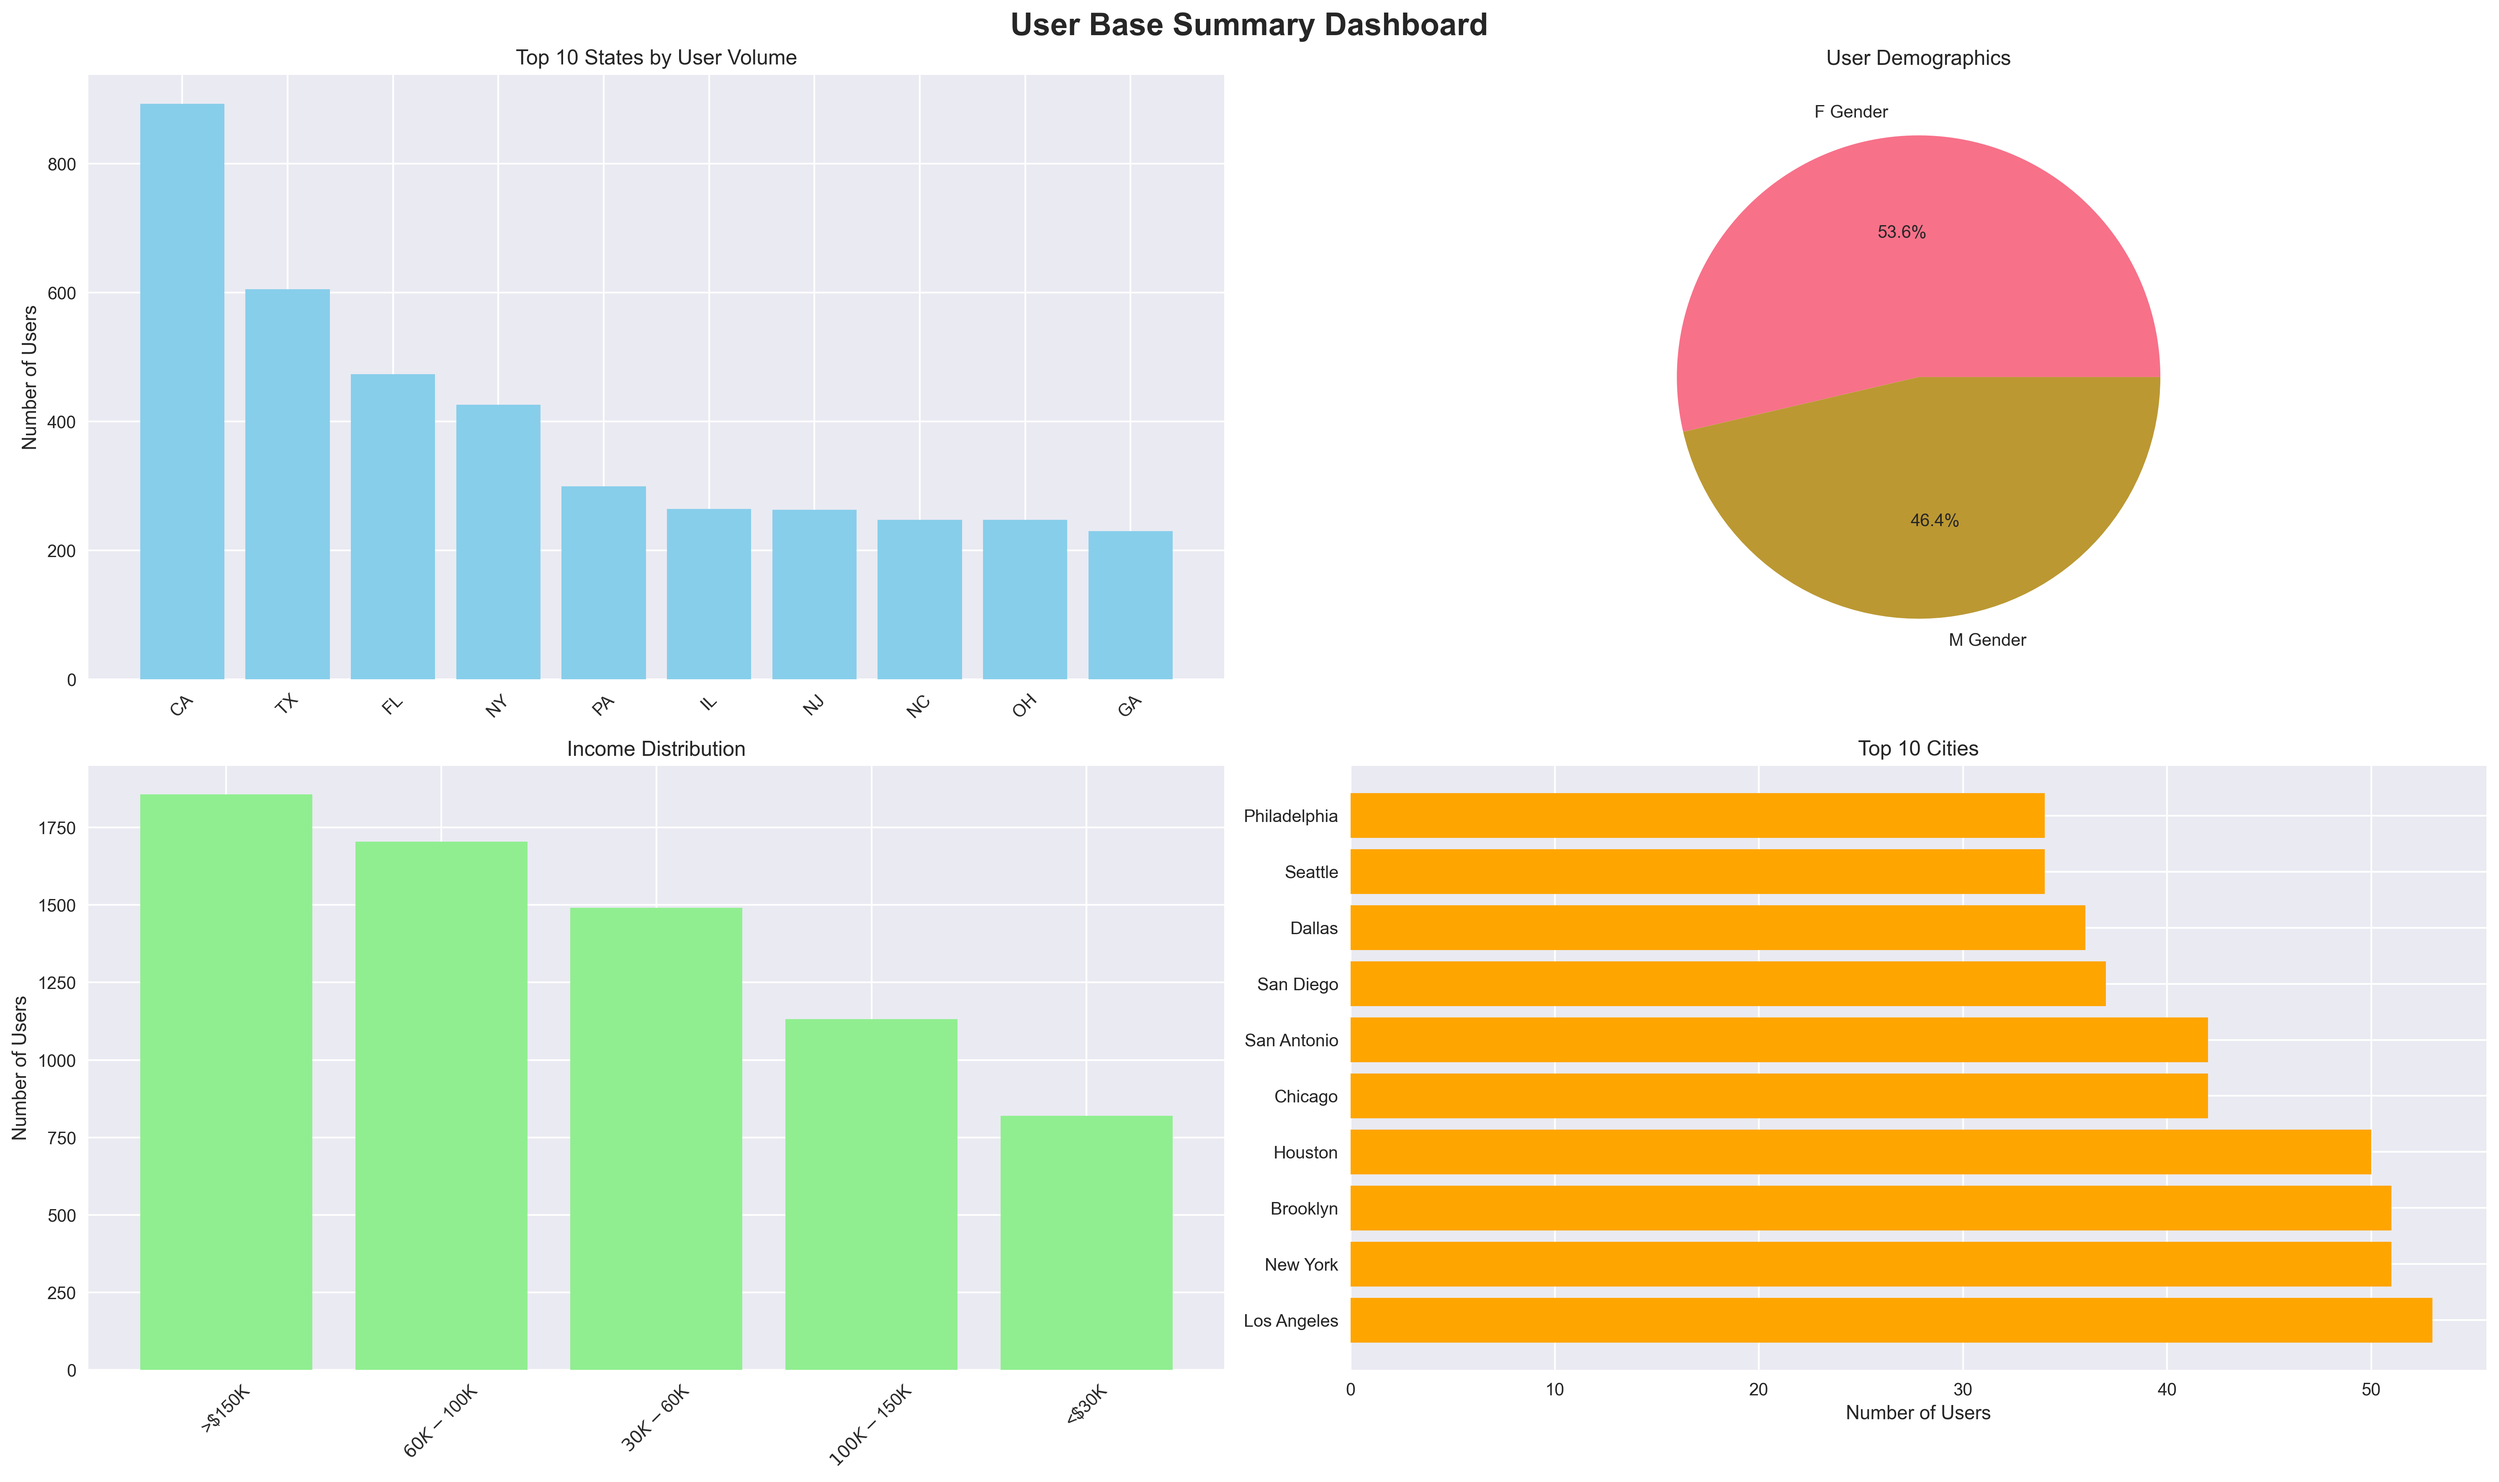
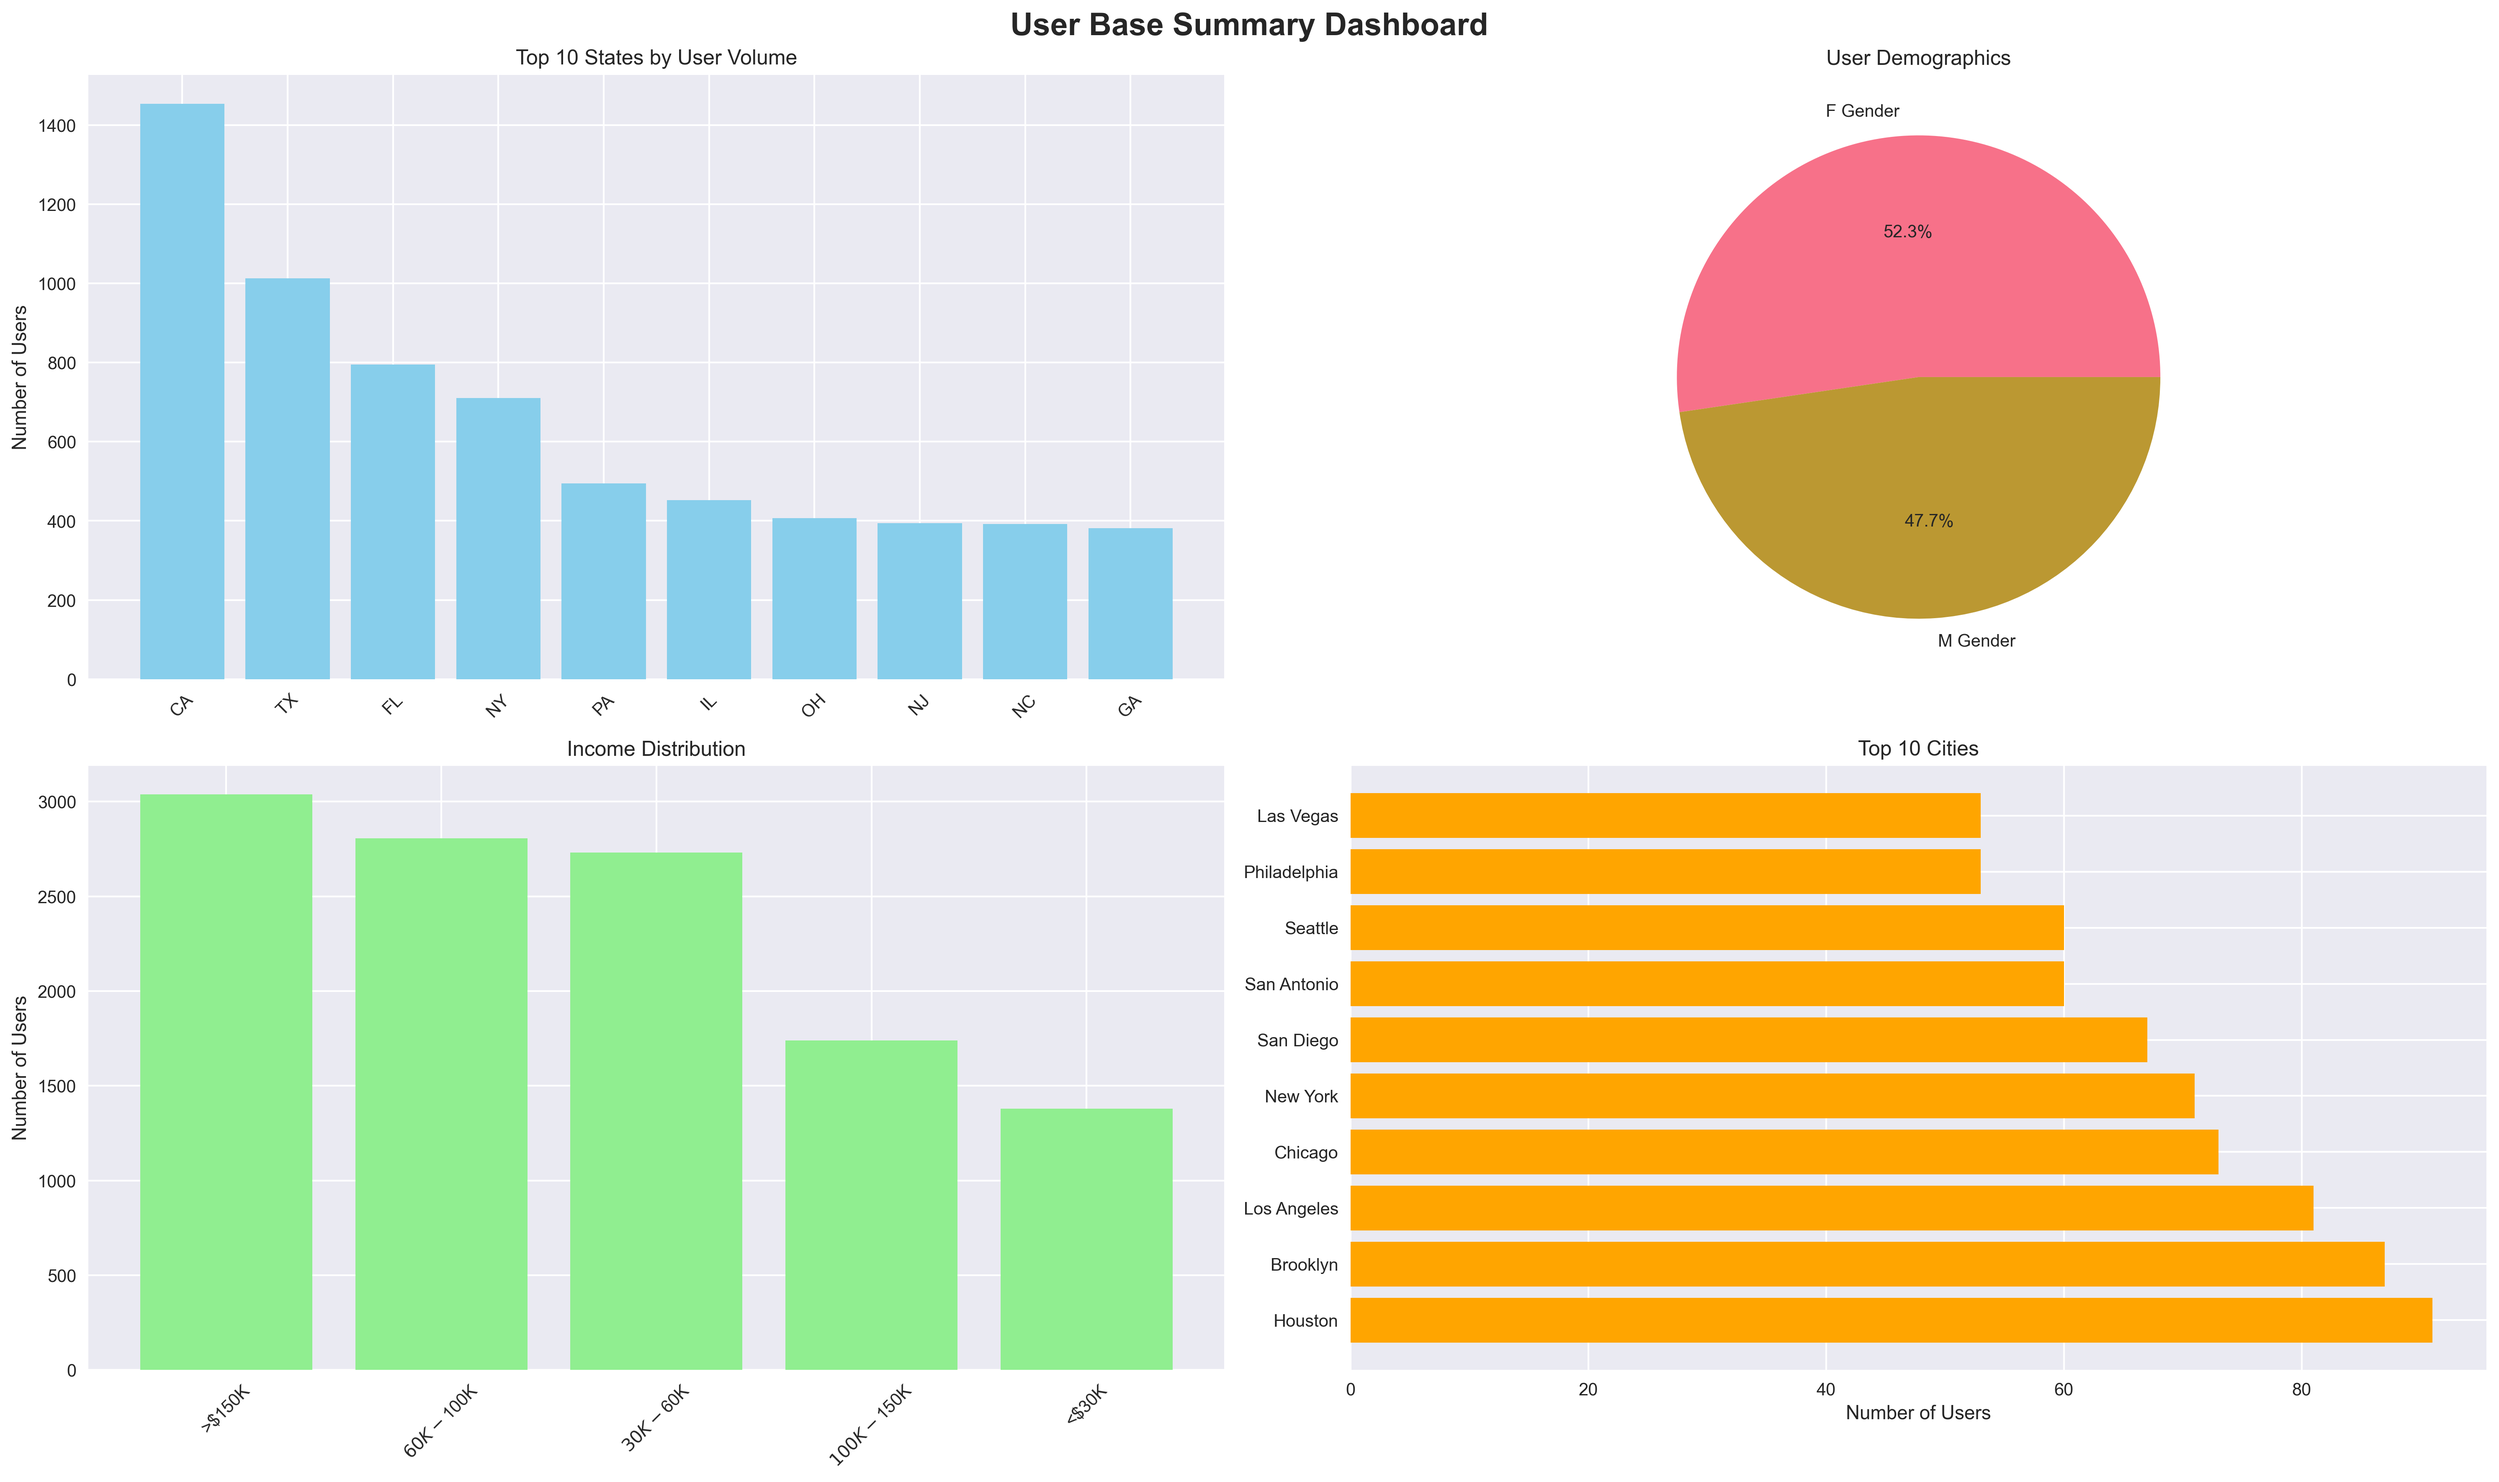
Results for 11k users

diff --git a/user_dashboard.html b/user_dashboard.html
@@ -277,16 +277,16 @@
         <header>
             <h1>User Demographics & Behavior Analysis</h1>
             <p>Data-Driven Insights for Strategic Business Decisions</p>
-            <p style="font-size: 1em; margin-top: 10px; opacity: 0.8;">Based on 7,002 Data Axle enriched user records</p>
+            <p style="font-size: 1em; margin-top: 10px; opacity: 0.8;">Based on 11,692 Data Axle enriched user records</p>
         </header>
 
         <!-- <div class="timestamp">
-            📅 Dashboard generated on July 16, 2025 at 09:09 PM | Data is current as of latest analysis
+            📅 Dashboard generated on July 17, 2025 at 02:15 AM | Data is current as of latest analysis
         </div> -->
 
         <!-- <div class="stats-grid">
             <div class="stat-card">
-                <div class="stat-number">7,002</div>
+                <div class="stat-number">11,692</div>
                 <div class="stat-label">Total Users Analyzed</div>
             </div>
             <div class="stat-card">
@@ -294,7 +294,7 @@
                 <div class="stat-label">States Covered</div>
             </div>
             <div class="stat-card">
-                <div class="stat-number">3000</div>
+                <div class="stat-number">3997</div>
                 <div class="stat-label">Cities Represented</div>
             </div>
             <div class="stat-card">
@@ -327,8 +327,8 @@
                     <div class="insight-card">
                         <h4>🎯 Key Takeaways</h4>
                         <ul>
-                            <li>Geographic presence across 51 states and 3000 cities</li>
-                            <li>Average income: $125,058 creates diverse segments</li>
+                            <li>Geographic presence across 51 states and 3997 cities</li>
+                            <li>Average income: $122,835 creates diverse segments</li>
                             <li>Rich interest data with 94 categories analyzed</li>
                             <li>Strong engagement patterns across multiple interests</li>
                         </ul>
@@ -359,9 +359,9 @@
                     <div class="insight-card">
                         <h4>🏙 Market Concentration</h4>
                         <ul>
-                            <li>CA: 893 users (12.8% of total)</li>
-                            <li>TX: 605 users (8.6% of total)</li>
-                            <li>FL: 473 users (6.8% of total)</li>
+                            <li>CA: 1,454 users (12.4% of total)</li>
+                            <li>TX: 1,013 users (8.7% of total)</li>
+                            <li>FL: 795 users (6.8% of total)</li>
                         </ul>
                     </div>
                     <div class="insight-card">
@@ -422,7 +422,7 @@
                     <div class="insight-card">
                         <h4>💵 Income Segments</h4>
                         <ul>
-                            <li>Average income: $125,058</li>
+                            <li>Average income: $122,835</li>
                             <li>Wide income distribution creates multiple segments</li>
                             <li>Homeowners show higher average income</li>
                             <li>Premium offerings viable for high-income users</li>
@@ -465,46 +465,46 @@
                         <div class="insight-column">
                             <h4>🔥 High-Value Segments</h4>
                             <div class="insight-item">
-                                <strong>Family:</strong> 1,157 highly engaged users (47.8%)<br>
-                                Average score: 5.9/9 | Total: 2,422 users
+                                <strong>Family:</strong> 1,896 highly engaged users (47.7%)<br>
+                                Average score: 5.9/9 | Total: 3,971 users
                             </div>
                             <div class="insight-item">
-                                <strong>Womens Apparel:</strong> 1,197 highly engaged users (40.7%)<br>
-                                Average score: 5.3/9 | Total: 2,940 users
+                                <strong>Womens Apparel:</strong> 1,847 highly engaged users (39.2%)<br>
+                                Average score: 5.2/9 | Total: 4,713 users
                             </div>
                             <div class="insight-item">
-                                <strong>Home Decor:</strong> 1,114 highly engaged users (43.7%)<br>
-                                Average score: 5.4/9 | Total: 2,547 users
+                                <strong>Home Decor:</strong> 1,697 highly engaged users (42.5%)<br>
+                                Average score: 5.3/9 | Total: 3,997 users
                             </div>
                         </div>
                         <div class="insight-column">
                             <h4>🚀 Emerging Opportunities</h4>
                             <div class="insight-item">
                                 <strong>Rvs:</strong> 9.0/9 average score<br>
-                                120 users with high engagement potential
+                                188 users with high engagement potential
                             </div>
                             <div class="insight-item">
                                 <strong>Trucks:</strong> 9.0/9 average score<br>
-                                191 users with high engagement potential
+                                313 users with high engagement potential
                             </div>
                             <div class="insight-item">
                                 <strong>Tobacco:</strong> 9.0/9 average score<br>
-                                60 users with high engagement potential
+                                93 users with high engagement potential
                             </div>
                         </div>
                         <div class="insight-column">
                             <h4>👥 Mass Market Appeal</h4>
                             <div class="insight-item">
-                                <strong>Womens Apparel:</strong> 2,940 total users<br>
-                                Average engagement: 5.3/9
+                                <strong>Womens Apparel:</strong> 4,713 total users<br>
+                                Average engagement: 5.2/9
                             </div>
                             <div class="insight-item">
-                                <strong>Home Decor:</strong> 2,547 total users<br>
-                                Average engagement: 5.4/9
-                            </div>
-                            <div class="insight-item">
-                                <strong>Accessories:</strong> 2,523 total users<br>
+                                <strong>Accessories:</strong> 4,057 total users<br>
                                 Average engagement: 5.1/9
+                            </div>
+                            <div class="insight-item">
+                                <strong>Home Decor:</strong> 3,997 total users<br>
+                                Average engagement: 5.3/9
                             </div>
                         </div>
                     </div>
@@ -563,7 +563,7 @@
                     <div class="insight-card">
                         <h4>💰 Revenue Optimization</h4>
                         <ul>
-                            <li>Implement tiered pricing (avg income: $125,058)</li>
+                            <li>Implement tiered pricing (avg income: $122,835)</li>
                             <li>Offer premium subscriptions for high-intensity users</li>
                             <li>Create loyalty programs for top 3 interest categories</li>
                             <li>Develop cross-selling strategies between related interests</li>
@@ -586,9 +586,9 @@
 
         <!-- <footer>
             <p><strong>User Demographics & Behavior Analysis Dashboard</strong></p>
-            <p>Generated using Data Axle enriched customer data | Analysis covers 7,002 user records</p>
+            <p>Generated using Data Axle enriched customer data | Analysis covers 11,692 user records</p>
             <p style="margin-top: 10px; opacity: 0.8;">Interest scores based on purchases, memberships, subscriptions, and survey responses</p>
-            <p style="margin-top: 5px; opacity: 0.8;">Dashboard generated on July 16, 2025 at 09:09 PM</p>
+            <p style="margin-top: 5px; opacity: 0.8;">Dashboard generated on July 17, 2025 at 02:15 AM</p>
         </footer> -->
     </div>
 </body>

diff --git a/script.js b/script.js
@@ -92,4 +92,4 @@ async function processEmails(startRange, endRange) {
 }
 
 // For testing with first 2 emails
-processEmails(2099, 9999);
+processEmails(9999, 19999);
